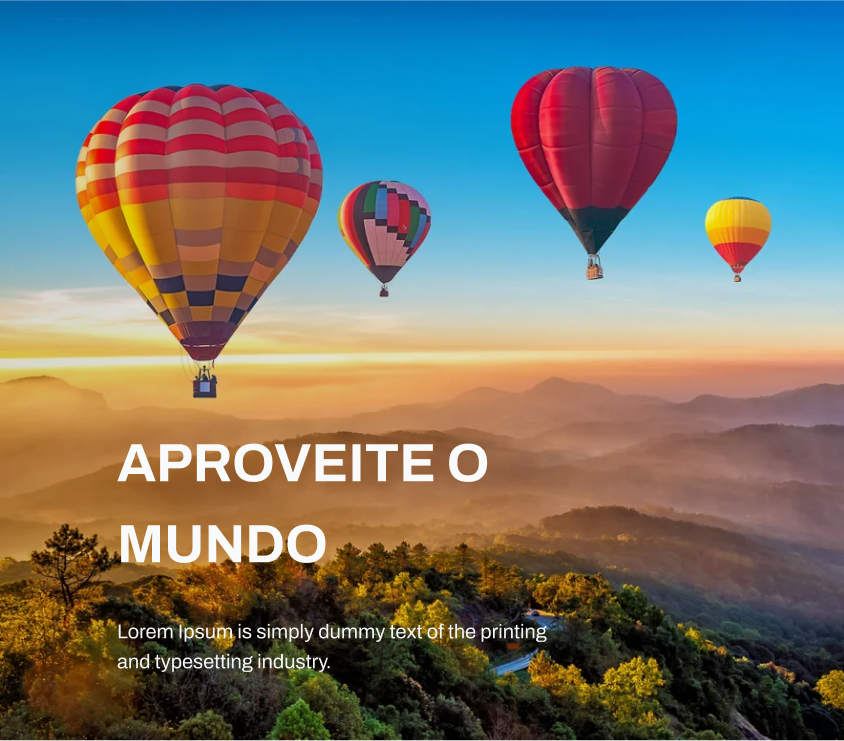
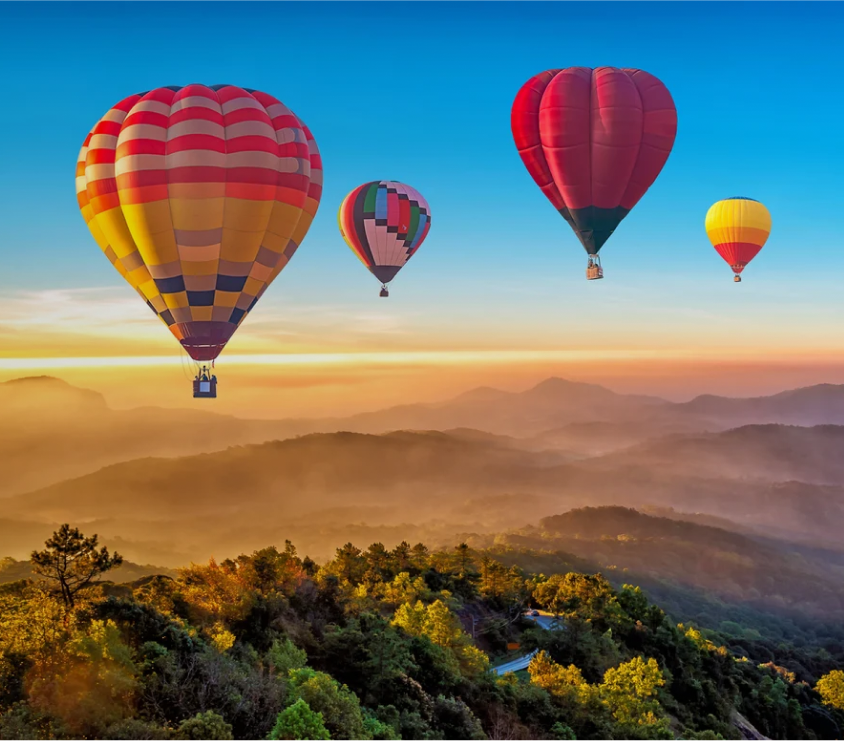
:fire: Login form

Changed region(s): [[0.1232, 0.5897, 0.5853, 0.6518], [0.1232, 0.8381, 0.6469, 0.9001], [0.1232, 0.6829, 0.4005, 0.776]]

diff --git a/src/pages/Login.tsx b/src/pages/Login.tsx
@@ -1,0 +1,60 @@
+import Balance from 'react-wrap-balancer'
+
+import { Input } from '../components/form/Input'
+
+export function Login() {
+  return (
+    <div className="bg-gray-500 flex h-[calc(100vh-5rem)]">
+      <div className="w-full h-full bg-[url('../assets/hero.png')] bg-no-repeat bg-cover flex items-end pl-28 pb-28">
+        <div className="max-w-md flex flex-col gap-4">
+          <h2 className="font-title font-bold leading-tight text-6xl text-gray-50 uppercase">
+            <Balance>Aproveite o mundo!</Balance>
+          </h2>
+          <span className="text-gray-100 leading-relaxed">
+            <Balance>
+              Lorem Ipsum is simply dummy text of the printing and typesetting
+              industry.
+            </Balance>
+          </span>
+        </div>
+      </div>
+
+      <div className="w-full h-full bg-zinc-50 flex items-center">
+        <div className="max-w-24 flex flex-col gap-8 mx-auto">
+          <h3 className="font-title font-semibold text-4xl leading-tight">
+            <Balance>Estamos quase lá!</Balance>
+          </h3>
+          <span className="font-title leading-relaxed text-gray-500">
+            <Balance>
+              Faça seu login para começar uma experiência incrível.
+            </Balance>
+          </span>
+          <form action="#" className="flex flex-col gap-8">
+            <div className="flex flex-col gap-8">
+              <Input inputType="email" name="email" placeholder="E-mail" />
+              <Input inputType="password" name="password" placeholder="Senha" />
+              <a
+                href="#"
+                className="text-blue-500 transition-colors hover:text-blue-600"
+              >
+                Esqueci minha senha
+              </a>
+            </div>
+            <button className="w-full h-14 bg-blue-500 rounded-lg text-white font-title font-medium transition-colors hover:bg-blue-600">
+              Login
+            </button>
+            <span className="text-gray-500">
+              Não possui uma conta?{' '}
+              <a
+                href="#"
+                className="text-blue-500 transition-colors hover:text-blue-600"
+              >
+                Criar conta
+              </a>
+            </span>
+          </form>
+        </div>
+      </div>
+    </div>
+  )
+}

diff --git a/src/components/form/Input.tsx b/src/components/form/Input.tsx
@@ -1,0 +1,43 @@
+import { EnvelopeSimple, Eye, EyeClosed, Lock, User } from 'phosphor-react'
+import { FormEvent, InputHTMLAttributes, useState } from 'react'
+
+interface InputProps extends InputHTMLAttributes<HTMLInputElement> {
+  inputType: 'user' | 'email' | 'password'
+}
+
+export function Input({ inputType, ...rest }: InputProps) {
+  const [inputValue, setInputValue] = useState('')
+  const [showPassword, setShowPassword] = useState(false)
+
+  function handleShowPassword(e: FormEvent) {
+    e.preventDefault()
+    setShowPassword(!showPassword)
+  }
+
+  return (
+    <div className="h-16 flex items-center border-[1px] border-gray-100 rounded-lg focus-within:border-blue-500 ">
+      <div className="w-[70px] h-full flex items-center justify-center border-r-2 border-gray-100">
+        {inputType === 'user' && <User size={24} className="text-gray-500" />}
+        {inputType === 'email' && (
+          <EnvelopeSimple size={24} className="text-gray-500" />
+        )}
+        {inputType === 'password' && (
+          <Lock size={24} className="text-gray-500" />
+        )}
+      </div>
+      <input
+        className="py-3 px-4 rounded text-sm placeholder:text-zinc-500 focus:outline-none w-full"
+        value={inputValue}
+        onChange={(e) => setInputValue(e.target.value)}
+        type={inputType === 'password' && showPassword ? 'text' : inputType}
+        {...rest}
+      />
+
+      {inputType === 'password' && (
+        <button onClick={handleShowPassword} className="pr-4">
+          {showPassword ? <Eye size={24} /> : <EyeClosed size={24} />}
+        </button>
+      )}
+    </div>
+  )
+}

diff --git a/src/components/Header.tsx b/src/components/Header.tsx
@@ -3,9 +3,9 @@ import user from '../assets/user.svg'
 
 export function Header() {
   return (
-    <div className="flex items-center justify-between">
+    <div className="flex items-center justify-between w-full h-20">
       <img src={logo} alt="TRIPvalley logo" />
-      <div className="flex-1 flex items-center justify-between px-28">
+      <div className="h-full flex-1 flex items-center justify-between px-28 border-b-2 border border-gray-100">
         <span className="font-title font-semibold text-xl">Login</span>
         <a href="#" className="flex items-center gap-4">
           <span className="font-title font-semibold">Entrar</span>

diff --git a/src/App.tsx b/src/App.tsx
@@ -1,9 +1,11 @@
 import { Header } from './components/Header'
+import { Login } from './pages/Login'
 
 export function App() {
   return (
     <>
       <Header />
+      <Login />
     </>
   )
 }
